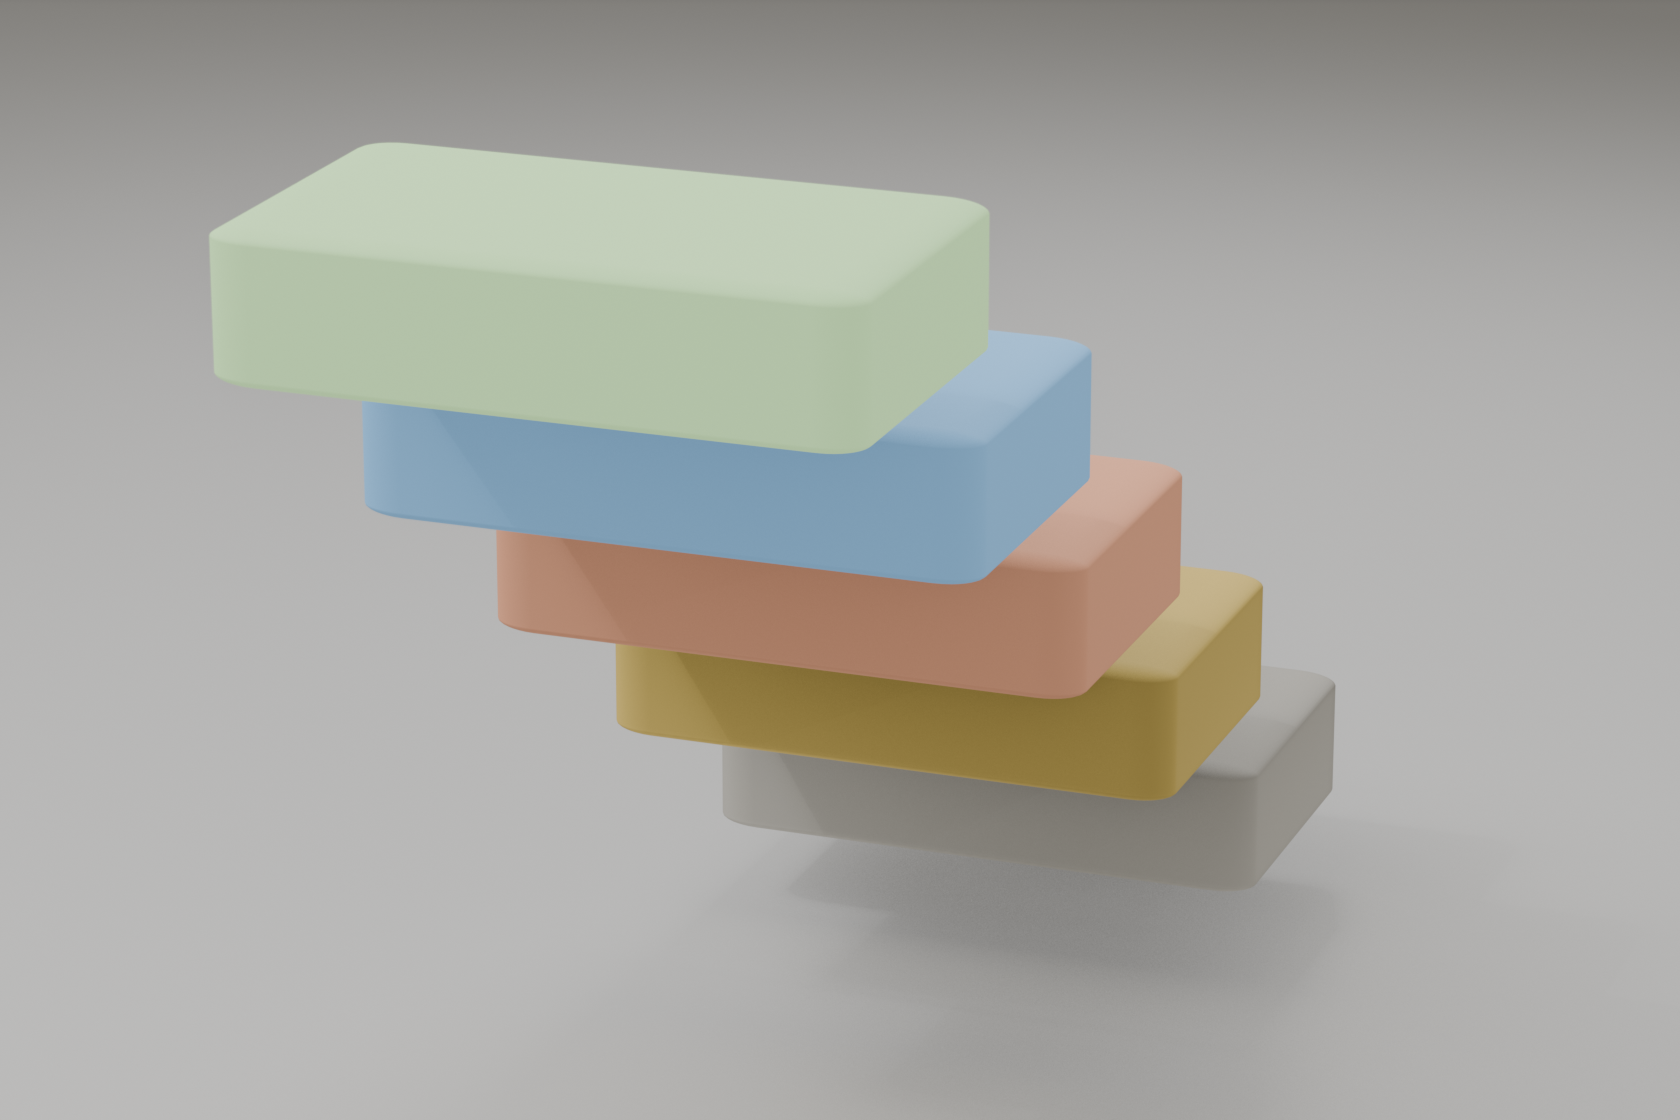
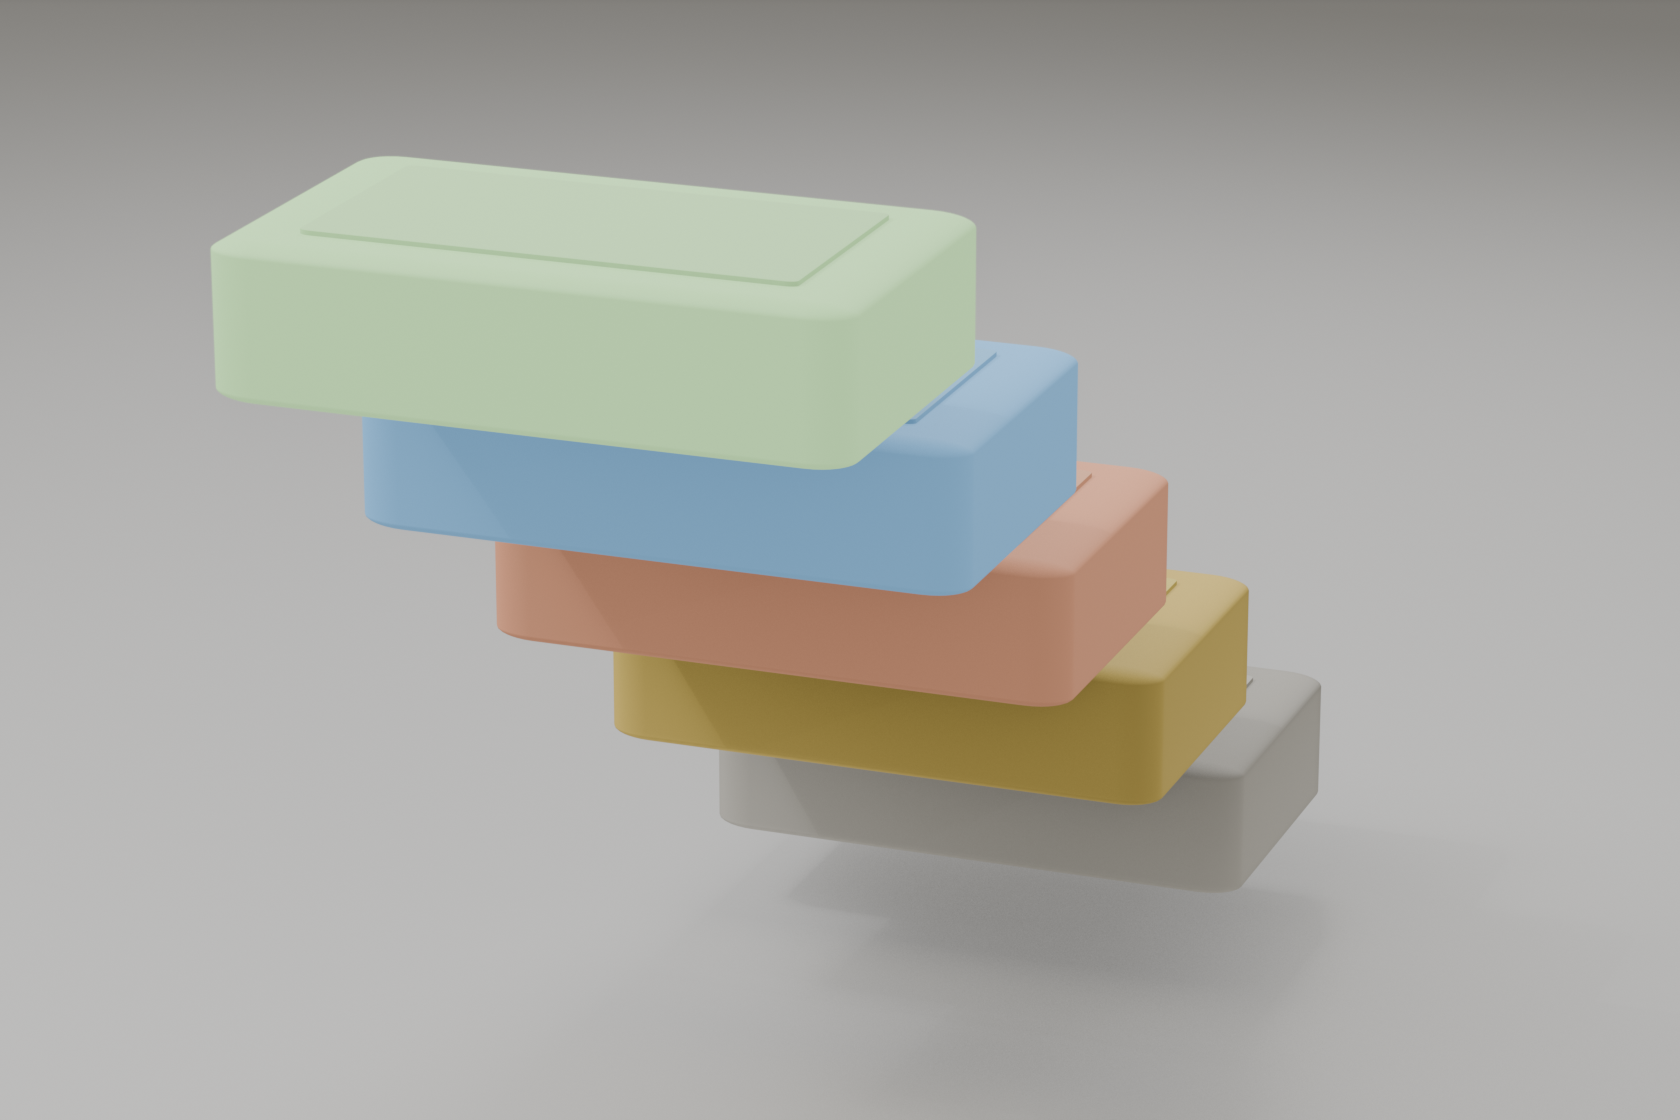
docs(architecture): enrich trust-lattice 3D render — panels, gate ladder, deprecated callout
Per user feedback (3D direction approved, "add more detail"):
- Render: each staircase slab now carries a recessed top panel — a
  designed detail that reads in the 3/4 view.
- Overlay: the right side is now a full annotated ladder — a labelled
  chip per level joined by a leader to its slab, with a gate seal
  between every pair naming the structural check for that step
  (write → Verifier check → cross-checkpoint cert → hash-CAS).
- A red callout marks the terminal `deprecated` state; a footer notes
  the IntEnum single-compare property.

Detail lives in the crisp HTML overlay; the 3D stays uncluttered
(in-scene gate rings occluded badly between tight staircase steps).

diff --git a/docs/architecture.html b/docs/architecture.html
@@ -587,11 +587,73 @@
     font-size: 10.5px;
     color: var(--ink-dim);
   }
+  .render-gate {
+    position: absolute;
+    transform: translateY(-50%);
+    display: flex;
+    align-items: center;
+    gap: 7px;
+    font-family: var(--mono);
+    font-size: 11px;
+    color: var(--good-deep);
+    white-space: nowrap;
+  }
+  .render-gate .rg-seal {
+    width: 19px;
+    height: 19px;
+    border-radius: 50%;
+    background: var(--good-soft);
+    border: 1.5px solid var(--good-deep);
+    display: flex;
+    align-items: center;
+    justify-content: center;
+    flex: none;
+  }
+  .render-gate b { color: var(--good-deep); font-weight: 700; }
+  .render-gate .rg-sub { color: var(--ink-faint); }
+  .render-note {
+    position: absolute;
+    transform: translateY(-50%);
+    max-width: 224px;
+    background: var(--danger-soft);
+    border-left: 3px solid var(--danger);
+    border-radius: 0 9px 9px 0;
+    padding: 9px 13px;
+    box-shadow: 0 4px 14px rgba(60, 40, 10, 0.12);
+  }
+  .render-note .rn-title {
+    font: 700 13px var(--sans);
+    color: #7c2f18;
+    letter-spacing: -0.2px;
+  }
+  .render-note .rn-sub {
+    font-family: var(--mono);
+    font-size: 10.5px;
+    color: var(--danger);
+    margin-top: 3px;
+    line-height: 1.5;
+  }
+  .render-foot {
+    position: absolute;
+    left: 3.5%;
+    bottom: 3%;
+    font-family: var(--mono);
+    font-size: 10.5px;
+    color: var(--ink-faint);
+    font-style: italic;
+  }
   @media (max-width: 720px) {
     .render-chip { padding: 4px 7px 4px 5px; gap: 5px; }
     .render-chip .rc-badge { width: 17px; height: 17px; font-size: 10px; border-radius: 5px; }
     .render-chip .rc-name { font-size: 9.5px; }
     .render-chip .rc-sub { display: none; }
+    .render-gate { font-size: 8px; gap: 3px; }
+    .render-gate .rg-seal { width: 12px; height: 12px; }
+    .render-gate .rg-sub { display: none; }
+    .render-note { max-width: 150px; padding: 5px 7px; }
+    .render-note .rn-title { font-size: 9px; }
+    .render-note .rn-sub { font-size: 7.5px; }
+    .render-foot { font-size: 7.5px; }
   }
 
   /* ----- interactive stack ----- */
@@ -1305,44 +1367,68 @@
   </div>
 
   <div class="figure-wrap">
-    <div class="render-fig" role="img" aria-label="3D render of the 6-level trust lattice as an ascending staircase. Five matte slabs climb from the lower right to the upper left, each a distinct colour and each sitting higher than the last so that elevation encodes trust: level 0 raw (grey, lowest), level 1 untrusted (gold), level 2 candidate (orange), level 3 verified (blue), level 4 promoted (green, highest and gently glowing). Crisp labels are overlaid beside each slab with a thin leader line. A sixth state, deprecated, is terminal — reachable as a downgrade from any non-raw level — and is described in the caption rather than drawn, to keep the climb uncluttered.">
+    <div class="render-fig" role="img" aria-label="3D render of the 6-level trust lattice as an ascending staircase. Five matte-clay slabs, each with a recessed top panel, climb from the lower right to the upper left — each a distinct colour and each sitting physically higher than the last, so elevation encodes trust: level 0 raw (grey, lowest), level 1 untrusted (gold), level 2 candidate (orange), level 3 verified (blue), level 4 promoted (green, highest, gently glowing). On the right, a crisp annotated ladder mirrors the climb: a labelled chip for each level joined by a thin leader line to its slab, and between each pair of chips a gate seal naming the structural check that must pass to climb that step — gate 1 write to storage, gate 2 basic Verifier check, gate 3 cross-checkpoint cert signed, gate 4 hash-CAS atomic flip. Lower left, a red callout marks the terminal deprecated state, reachable as a downgrade from any non-raw level. A footer notes the IntEnum encoding makes a trust comparison a single integer compare.">
       <img src="diagrams/trust_lattice.png" alt="3D staircase of the five CSIS trust levels rising from raw to promoted"/>
       <svg class="render-leaders" viewBox="0 0 1680 1120" preserveAspectRatio="none" aria-hidden="true">
-        <g stroke="#b8a880" stroke-width="2" fill="none">
-          <line x1="521" y1="347" x2="772" y2="325"/>
-          <line x1="655" y1="482" x2="907" y2="459"/>
-          <line x1="773" y1="605" x2="1042" y2="594"/>
-          <line x1="890" y1="706" x2="1176" y2="706"/>
-          <line x1="974" y1="806" x2="1277" y2="818"/>
+        <g stroke="#c2b48f" stroke-width="2" fill="none">
+          <line x1="519" y1="360" x2="1058" y2="302"/>
+          <line x1="653" y1="492" x2="1058" y2="459"/>
+          <line x1="771" y1="607" x2="1058" y2="610"/>
+          <line x1="875" y1="710" x2="1058" y2="756"/>
+          <line x1="969" y1="803" x2="1058" y2="896"/>
         </g>
-        <g fill="#b8a880">
-          <circle cx="521" cy="347" r="6"/>
-          <circle cx="655" cy="482" r="6"/>
-          <circle cx="773" cy="605" r="6"/>
-          <circle cx="890" cy="706" r="6"/>
-          <circle cx="974" cy="806" r="6"/>
+        <g fill="#c2b48f">
+          <circle cx="519" cy="360" r="6"/>
+          <circle cx="653" cy="492" r="6"/>
+          <circle cx="771" cy="607" r="6"/>
+          <circle cx="875" cy="710" r="6"/>
+          <circle cx="969" cy="803" r="6"/>
         </g>
       </svg>
-      <div class="render-chip" style="left:46%;top:29%">
-        <span class="rc-badge" style="background:#6a8a50">4</span>
-        <span class="rc-text"><span class="rc-name">promoted</span><br><span class="rc-sub">hash-CAS done · read as truth</span></span>
+
+      <div class="render-chip" style="left:63%;top:27%">
+        <span class="rc-badge" style="background:#5f9a3e">4</span>
+        <span class="rc-text"><span class="rc-name">promoted</span><br><span class="rc-sub">live · the next iteration reads this as truth</span></span>
       </div>
-      <div class="render-chip" style="left:54%;top:41%">
-        <span class="rc-badge" style="background:#4a82bc">3</span>
-        <span class="rc-text"><span class="rc-name">verified</span><br><span class="rc-sub">V1+V2 cert · cross-checkpoint</span></span>
+      <div class="render-chip" style="left:63%;top:41%">
+        <span class="rc-badge" style="background:#3a7bd0">3</span>
+        <span class="rc-text"><span class="rc-name">verified</span><br><span class="rc-sub">V1+V2 cert signed on a 2nd checkpoint</span></span>
       </div>
-      <div class="render-chip" style="left:62%;top:53%">
+      <div class="render-chip" style="left:63%;top:54.5%">
         <span class="rc-badge" style="background:#d97757">2</span>
-        <span class="rc-text"><span class="rc-name">candidate</span><br><span class="rc-sub">Verifier check passed</span></span>
+        <span class="rc-text"><span class="rc-name">candidate</span><br><span class="rc-sub">written, not yet visible to live reads</span></span>
       </div>
-      <div class="render-chip" style="left:70%;top:63%">
+      <div class="render-chip" style="left:63%;top:67.5%">
         <span class="rc-badge" style="background:#c2982f">1</span>
-        <span class="rc-text"><span class="rc-name">untrusted</span><br><span class="rc-sub">stored · may be poisoned</span></span>
+        <span class="rc-text"><span class="rc-name">untrusted</span><br><span class="rc-sub">stored on disk · may be poisoned</span></span>
       </div>
-      <div class="render-chip" style="left:76%;top:73%">
+      <div class="render-chip" style="left:63%;top:80%">
         <span class="rc-badge" style="background:#8a8579">0</span>
-        <span class="rc-text"><span class="rc-name">raw</span><br><span class="rc-sub">just-observed · in-memory</span></span>
+        <span class="rc-text"><span class="rc-name">raw</span><br><span class="rc-sub">just-observed · in-memory only</span></span>
       </div>
+
+      <div class="render-gate" style="left:64.5%;top:34%">
+        <span class="rg-seal"><svg width="11" height="11"><use href="#icon-lock" style="color:#5a6c46"/></svg></span>
+        <span><b>gate 4</b> &nbsp;hash-CAS atomic flip</span>
+      </div>
+      <div class="render-gate" style="left:64.5%;top:47.75%">
+        <span class="rg-seal"><svg width="11" height="11"><use href="#icon-lock" style="color:#5a6c46"/></svg></span>
+        <span><b>gate 3</b> &nbsp;cross-checkpoint cert</span>
+      </div>
+      <div class="render-gate" style="left:64.5%;top:61%">
+        <span class="rg-seal"><svg width="11" height="11"><use href="#icon-lock" style="color:#5a6c46"/></svg></span>
+        <span><b>gate 2</b> &nbsp;basic Verifier check</span>
+      </div>
+      <div class="render-gate" style="left:64.5%;top:73.75%">
+        <span class="rg-seal"><svg width="11" height="11"><use href="#icon-lock" style="color:#5a6c46"/></svg></span>
+        <span><b>gate 1</b> &nbsp;write to storage</span>
+      </div>
+
+      <div class="render-note" style="left:3.5%;top:84%">
+        <div class="rn-title">level 5 · deprecated <span style="font-weight:400">— terminal</span></div>
+        <div class="rn-sub">superseded or contradicted · downgrade is allowed from <b>any</b> non-raw level · no path out</div>
+      </div>
+      <div class="render-foot">trust.py · IntEnum 0–5 → <code style="background:none;color:var(--ink-dim)">entry.trust ≥ VERIFIED</code> is one integer compare</div>
     </div>
     <div class="figure-caption">Figure 2 · The 6-level trust lattice, rendered in 3D. Each level is a slab that sits <b>physically higher</b> than the one below — elevation <em>is</em> trust. The only way up a step is to clear that step's gate (<code>write</code> → <code>Verifier check</code> → <code>cross-checkpoint cert</code> → <code>hash-CAS</code>). The 6th state, <code>deprecated</code>, is terminal and always reachable as a downgrade from any non-raw level. The <code>IntEnum</code> ordering makes <code>entry.trust ≥ TrustLevel.VERIFIED</code> a single integer compare — no string parsing, no enum-lookup tax.</div>
     <div class="failure-mode"><span class="fm-label">what fails without this:</span> Trust becomes a free-text string and confidence collapses into authorization. An agent that asserts "I've verified this" gets treated the same as an artifact that <em>passed</em> verification. The lattice makes trust an integer ladder where the only path up runs through an explicit gate — so claiming a higher level is structurally impossible, not just discouraged.</div>

diff --git a/docs/diagrams/_build_trust.py b/docs/diagrams/_build_trust.py
@@ -1,7 +1,7 @@
-"""Blender headless build — Trust lattice as a 3D ascending staircase.
-
-Renders the 3D geometry only (no text). Prints normalized 2D screen
-coordinates for each slab so crisp HTML text can be overlaid on top.
+"""Blender headless build — Trust lattice: 5 trust-level slabs as a clean
+3D ascending staircase with recessed top panels. Gates / deprecated / the
+IntEnum note are added crisply in the HTML overlay, not in 3D (they
+occlude badly between tight staircase steps).
 
 Run:  blender --background --factory-startup --python _build_trust.py
 """
@@ -15,7 +15,6 @@ COORDS = os.path.join(HERE, "trust_lattice.coords.json")
 bpy.ops.wm.read_factory_settings(use_empty=True)
 scene = bpy.context.scene
 
-# ---------- render config ----------
 scene.render.engine = 'BLENDER_EEVEE_NEXT'
 RES_X, RES_Y = 1680, 1120
 scene.render.resolution_x = RES_X
@@ -25,42 +24,37 @@ scene.view_settings.view_transform = 'AgX'
 scene.view_settings.look = 'AgX - Punchy'
 try:
     scene.eevee.use_raytracing = True
-    scene.eevee.taa_render_samples = 160
+    scene.eevee.taa_render_samples = 200
 except Exception:
     pass
 
 CREAM = (0.965, 0.915, 0.815)
-
-# ---------- world ----------
 world = bpy.data.worlds.new("w"); scene.world = world
 world.use_nodes = True
-bg = world.node_tree.nodes["Background"]
-bg.inputs["Color"].default_value = (*CREAM, 1)
-bg.inputs["Strength"].default_value = 0.34
+bgn = world.node_tree.nodes["Background"]
+bgn.inputs["Color"].default_value = (*CREAM, 1)
+bgn.inputs["Strength"].default_value = 0.36
 
-# ---------- materials ----------
-def clay(name, color, emit=0.0, rough=0.58):
+def clay(name, color, emit=0.0, rough=0.55):
     m = bpy.data.materials.new(name)
     m.use_nodes = True
     b = m.node_tree.nodes["Principled BSDF"]
     b.inputs["Base Color"].default_value = (*color, 1)
     b.inputs["Roughness"].default_value = rough
     if "Specular IOR Level" in b.inputs:
-        b.inputs["Specular IOR Level"].default_value = 0.3
+        b.inputs["Specular IOR Level"].default_value = 0.32
     if emit > 0:
         b.inputs["Emission Color"].default_value = (*color, 1)
         b.inputs["Emission Strength"].default_value = emit
     return m
 
-def slab(name, loc, size, color, emit=0.0):
+def box(name, loc, size, color, emit=0.0, bevel=0.075):
     bpy.ops.mesh.primitive_cube_add(size=1, location=loc)
     ob = bpy.context.active_object
     ob.name = name
     ob.scale = size
-    bev = ob.modifiers.new("bevel", "BEVEL")
-    bev.width = 0.075
-    bev.segments = 8
-    bev.harden_normals = True
+    bv = ob.modifiers.new("bevel", "BEVEL")
+    bv.width = bevel; bv.segments = 8; bv.harden_normals = True
     ob.data.materials.append(clay(name + "_m", color, emit=emit))
     bpy.ops.object.shade_smooth()
     return ob
@@ -68,60 +62,61 @@ def slab(name, loc, size, color, emit=0.0):
 # ---------- the 5-level staircase ----------
 LEVELS = [
     ("raw",       (0.60, 0.58, 0.53), 0.0),
-    ("untrusted", (0.92, 0.68, 0.18), 0.08),
-    ("candidate", (0.95, 0.44, 0.27), 0.42),
-    ("verified",  (0.24, 0.52, 0.86), 0.85),
-    ("promoted",  (0.42, 0.68, 0.33), 1.7),
+    ("untrusted", (0.93, 0.69, 0.17), 0.07),
+    ("candidate", (0.96, 0.43, 0.26), 0.42),
+    ("verified",  (0.22, 0.52, 0.88), 0.90),
+    ("promoted",  (0.40, 0.70, 0.32), 1.85),
 ]
-W, D, H = 2.3, 1.3, 0.54
+W, D, H = 2.3, 1.3, 0.56
 STEP_Y, STEP_Z = 1.12, 0.80
-anchors = {}      # label -> 3D point on the front face, for text overlay
+anchors = {}
 
 for i, (label, col, emit) in enumerate(LEVELS):
-    y = -i * STEP_Y
-    z = i * STEP_Z
-    slab(label, (0, y, z), (W, D, H), col, emit=emit)
+    y, z = -i * STEP_Y, i * STEP_Z
+    box(label, (0, y, z), (W, D, H), col, emit=emit)
+    # recessed top panel — a designed detail that reads in 3/4 view
+    pc = tuple(min(1.0, c * 1.16 + 0.03) for c in col)
+    box(label + "_panel", (0, y, z + H / 2 - 0.012),
+        (W - 0.52, D - 0.42, 0.06), pc, emit=emit * 0.5, bevel=0.025)
     anchors[label] = mathutils.Vector((0.0, y - D / 2, z))
 
 # ---------- ground (shadow catcher) ----------
-bpy.ops.mesh.primitive_plane_add(size=90, location=(0, 0, -0.62))
+bpy.ops.mesh.primitive_plane_add(size=90, location=(0, 0, -0.66))
 bpy.context.active_object.is_shadow_catcher = True
 
 # ---------- lighting ----------
 def area(loc, energy, size, aim=None):
     bpy.ops.object.light_add(type='AREA', location=loc)
     L = bpy.context.active_object
-    L.data.energy = energy
-    L.data.size = size
+    L.data.energy = energy; L.data.size = size
     if aim is not None:
         L.rotation_euler = (mathutils.Vector(aim) - L.location).to_track_quat('-Z', 'Y').to_euler()
     return L
 
-area((-8, -7, 12), 2600, 11, aim=(0.0, -2.4, 1.6))   # key
-area((11, -6, 6), 700, 16)                            # fill
-area((-1, 7, 10), 1300, 12, aim=(0.0, -2.4, 2.0))    # rim
+area((-8, -7, 12), 2700, 11, aim=(0.0, -2.4, 1.6))
+area((11, -6, 6), 720, 16)
+area((-1, 7, 10), 1350, 12, aim=(0.0, -2.4, 2.0))
 
-# ---------- camera: gentle 3/4, long lens, framed with margin ----------
-bpy.ops.object.camera_add(location=(7.2, -21.5, 8.6))
+# ---------- camera ----------
+bpy.ops.object.camera_add(location=(7.3, -21.5, 8.7))
 cam = bpy.context.active_object
 scene.camera = cam
-cam.data.lens = 125
-target = mathutils.Vector((0.0, -2.25, 1.55))
+cam.data.lens = 123
+target = mathutils.Vector((0.05, -2.3, 1.6))
 cam.rotation_euler = (target - cam.location).to_track_quat('-Z', 'Y').to_euler()
 cam.data.dof.use_dof = True
 cam.data.dof.focus_distance = (target - cam.location).length
-cam.data.dof.aperture_fstop = 7.0
+cam.data.dof.aperture_fstop = 7.5
 
-# ---------- project anchors to 2D screen space ----------
+# ---------- project anchors ----------
 bpy.context.view_layer.update()
-coords = {}
-for label, p in anchors.items():
+def proj(p):
     v = world_to_camera_view(scene, cam, p)
-    coords[label] = {"x": round(v.x, 4), "y": round(1.0 - v.y, 4)}  # y flipped to top-down
+    return {"x": round(v.x, 4), "y": round(1.0 - v.y, 4)}
+coords = {k: proj(v) for k, v in anchors.items()}
 with open(COORDS, "w") as f:
     json.dump({"res": [RES_X, RES_Y], "anchors": coords}, f, indent=2)
 
-# ---------- render ----------
 scene.render.filepath = OUT
 scene.render.image_settings.file_format = 'PNG'
 scene.render.image_settings.color_mode = 'RGBA'